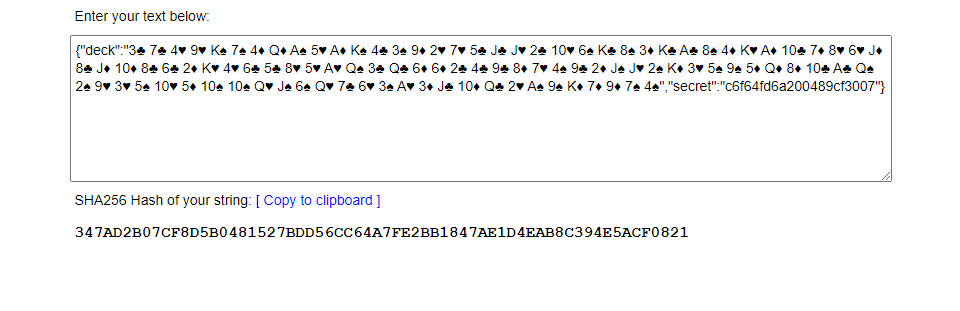
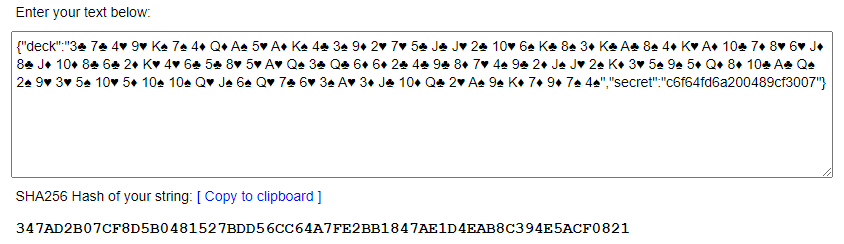
fix: update border images BF

diff --git a/src/components/game-guide-pf/chinese-blackjack/contents.tsx b/src/components/game-guide-pf/chinese-blackjack/contents.tsx
@@ -12,7 +12,7 @@ const renderHowPFInGame = (t: TFnType<DefaultParamType, string, TranslationKey>,
         <li className="guide-item">
             <h2>{t("pf_title_how_is_pf_applied_in_game", { ns: "Common" })} </h2>
             <div className="center-img">
-                <img src={`./static/images/pf/final-result.png?v=${verImg}`} alt="pf"></img>
+                <img className="img-border" src={`./static/images/pf/final-result.png?v=${verImg}`} alt="pf"></img>
             </div>
             <p>{t("pf_how_pf_applied_in_game_para_1", { ns: "ChineseBlackjack" })} </p>
             <ul className="desc">
@@ -76,7 +76,7 @@ const renderAfterSettling = (t: TFnType<DefaultParamType, string, TranslationKey
                         <li>{<Markup content={t("pf_verify_server_seed_SHA256_para_3", { ns: "ChineseBlackjack" })} />}</li>
 
                         <div className="center-img">
-                            <img src={`./static/images/chinese-blackjack/pf/sha256.png?v=${verImg}`} alt="pf"></img>
+                            <img className="img-border" src={`./static/images/chinese-blackjack/pf/sha256.png?v=${verImg}`} alt="pf"></img>
                         </div>
 
                         <li>{<Markup content={t("pf_verify_server_seed_SHA256_para_4", { ns: "ChineseBlackjack" })} />}</li>

diff --git a/src/components/game-guide-pf/base/index.tsx b/src/components/game-guide-pf/base/index.tsx
@@ -54,7 +54,7 @@ const renderHowPFWork = (t: TFnType<DefaultParamType, string, TranslationKey>, i
             </ul>
             <p>{t("pf_how_pf_work_para_6", { ns: "Common" })}</p>
             <div className="center-img">
-                <img src={`./static/images/pf/flow-final-result.png?v=${imgVersion}`} alt="pf"></img>
+                <img className="img-border" src={`./static/images/pf/flow-final-result.png?v=${imgVersion}`} alt="pf"></img>
             </div>
         </li>
     );

diff --git a/src/components/game-guide-pf/chinese-blackjack/chinese-blackjack-pf-game.module.scss b/src/components/game-guide-pf/chinese-blackjack/chinese-blackjack-pf-game.module.scss
@@ -16,5 +16,7 @@
 .center-text{
     display: flex;
     text-align: center;
-    justify-content: center;
+    justify-content: left;
+    margin-bottom: -2rem;
+    margin-left: 9rem;
 }

diff --git a/src/assets/game-guide.scss b/src/assets/game-guide.scss
@@ -514,6 +514,10 @@ ul {
     padding: 1rem 0;
 }
 
+.img-border{
+    border-radius: 1rem;
+}
+
 @media (max-width: 768px) {
     .format-mobile {
         width: 100%;
